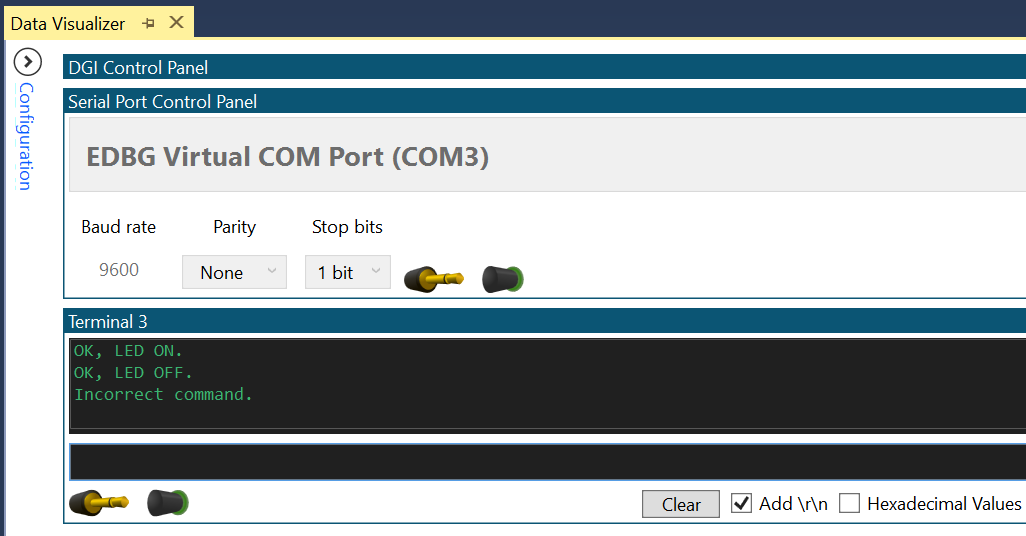
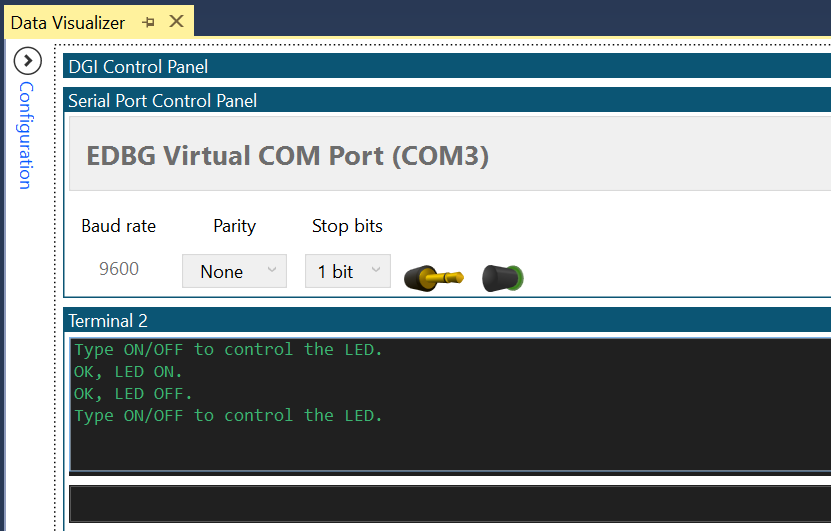
MPAE-8198: Updated Receive_Control_Commands code example

Changed region(s): [[0.0, 0.0, 1.0, 1.0], [0.2106, 0.3917, 0.4513, 0.452]]

diff --git a/Receive_Control_Commands/main.c b/Receive_Control_Commands/main.c
@@ -22,11 +22,13 @@
 
 #define F_CPU 3333333
 #define USART1_BAUD_RATE(BAUD_RATE) ((float)(F_CPU * 64 / (16 * (float)BAUD_RATE)) + 0.5)
-#define MAX_COMMAND_LEN 8
+#define MAX_COMMAND_LEN		8
+#define INIT_DELAY			10	/* delay in ms */
 
 #include <avr/io.h>
 #include <stdio.h>
 #include <string.h>
+#include <util/delay.h>
 
 void USART1_init(void);
 void USART1_sendChar(char c);
@@ -41,7 +43,7 @@ void USART1_init(void)
 {
     PORTC.DIR &= ~PIN1_bm;
     PORTC.DIR |= PIN0_bm;
-    
+
     USART1.BAUD = (uint16_t)USART1_BAUD_RATE(9600);
 
     USART1.CTRLB |= USART_RXEN_bm | USART_TXEN_bm;
@@ -103,7 +105,7 @@ void executeCommand(char *command)
     } 
     else 
     {
-        USART1_sendString("Incorrect command.\r\n");
+        USART1_sendString("Type ON/OFF to control the LED.\r\n");
     }
 }
 
@@ -115,6 +117,10 @@ int main(void)
     
     LED_init();
     USART1_init();
+        
+    _delay_ms(INIT_DELAY); 
+        
+    USART1_sendString("Type ON/OFF to control the LED.\r\n");
     
     while (1)
     {

diff --git a/README.md b/README.md
@@ -3,7 +3,7 @@
 
 # Getting Started with Universal Synchronous and Asynchronous Receiver and Transmitter (USART) Examples (Microchip Studio)
 
-  This repository contains examples of bare metal source code for Universal Synchronous and Asynchronous Receiver and Transmitter (USART) as described in [TB3216-Universal Synchronous and Asynchronous Receiver and Transmitter (USART)](https://www.microchip.com/) document from Microchip. The repository contains an Microchip Studio Solution with multiple projects inside:
+  This repository contains examples of bare metal source code for Universal Synchronous and Asynchronous Receiver and Transmitter (USART) as described in [TB3216-Getting Started with USART](https://ww1.microchip.com/downloads/en/Appnotes/TB3216-Getting-Started-with-USART-90003216B.pdf) document from Microchip. The repository contains an Microchip Studio Solution with multiple projects inside:
 
   * [<strong>Send Hello World:</strong>](Send_Hello_World) This use case demonstrates how to send a string to the PC via serial communication using the USART peripheral (for more details, see [<strong>Send Hello World</strong>](Send_Hello_World)).
   * [<strong>Send Formatted Strings Using 'printf':</strong>](Send_Formatted_Strings_Using_Printf) This use case shows how to send formatted strings through USART. This example sends the value of a counter every 500 ms and then increases it (for more details, see [<strong> Send Fromatted Strings Using 'printf'</strong>](Send_Formatted_String_Using_Printf)).

diff --git a/Receive_Control_Commands/README.md b/Receive_Control_Commands/README.md
@@ -6,7 +6,7 @@
 This project shows how to use the Universal Synchronous and Asynchronous Receiver and Transmitter (USART) to implement a command line interface. This way, the microcontroller can receive control commands via the USART. It is convenient to use the line terminator `\r\n` as a command delimiter, so for this use case the USART will read full lines. The application can decode:
 - **'ON'** command and will turn on an LED and reply with **'OK, LED ON.\r\n'**
 - **'OFF'** command and will turn off an LED and reply with **'OK, LED OFF.\r\n'**
-- for any other command, it will reply with **'Incorrect command.\r\n'**
+- for any other command, it will reply with **'Type ON/OFF to control the LED.\r\n'**
 
 ## Related Documentation
 More details and code examples on the ATMEGA4809 can be found at the following links:
@@ -71,9 +71,12 @@ USART0 configuration:
 
 ## Demo
 
+Note: open the terminal before programming the device. The help command "Type ON/OFF to control the LED." will be received. 
+
 <br><img src="images/demo.png" width="500">
 
 In this demo, commands are sent via serial communication and the confirm messages are received in a terminal.
+<br>Right after initialization, the board sends the "Type ON/OFF to control the LED." message. Then, it follows the behavior described in the description of this README.
 
 ## Summary
 
